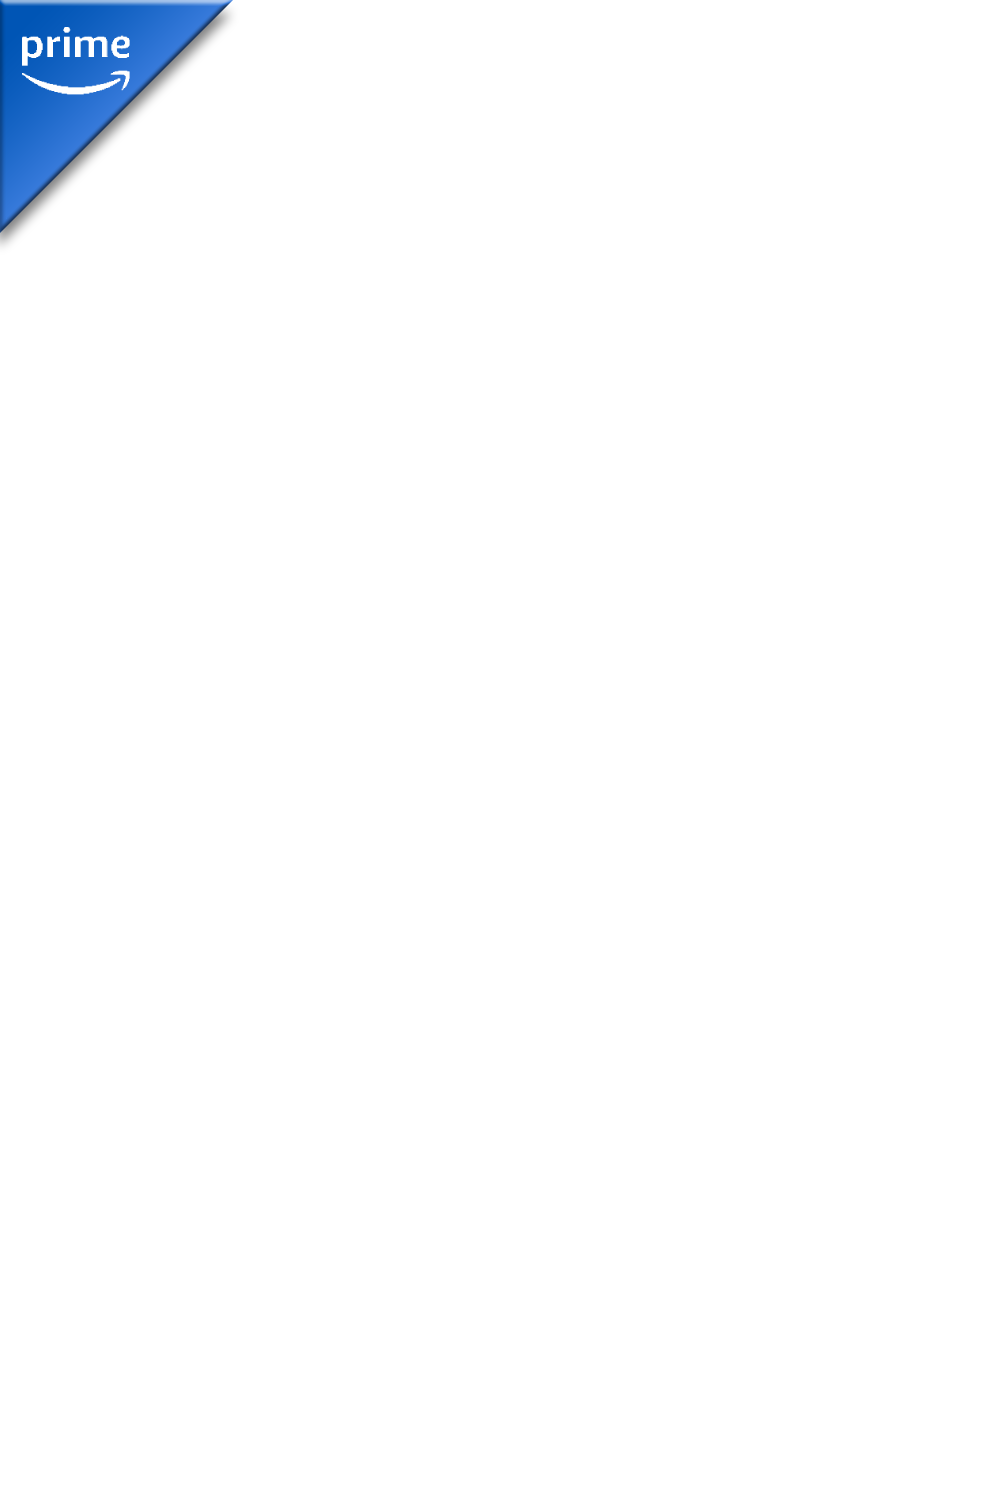
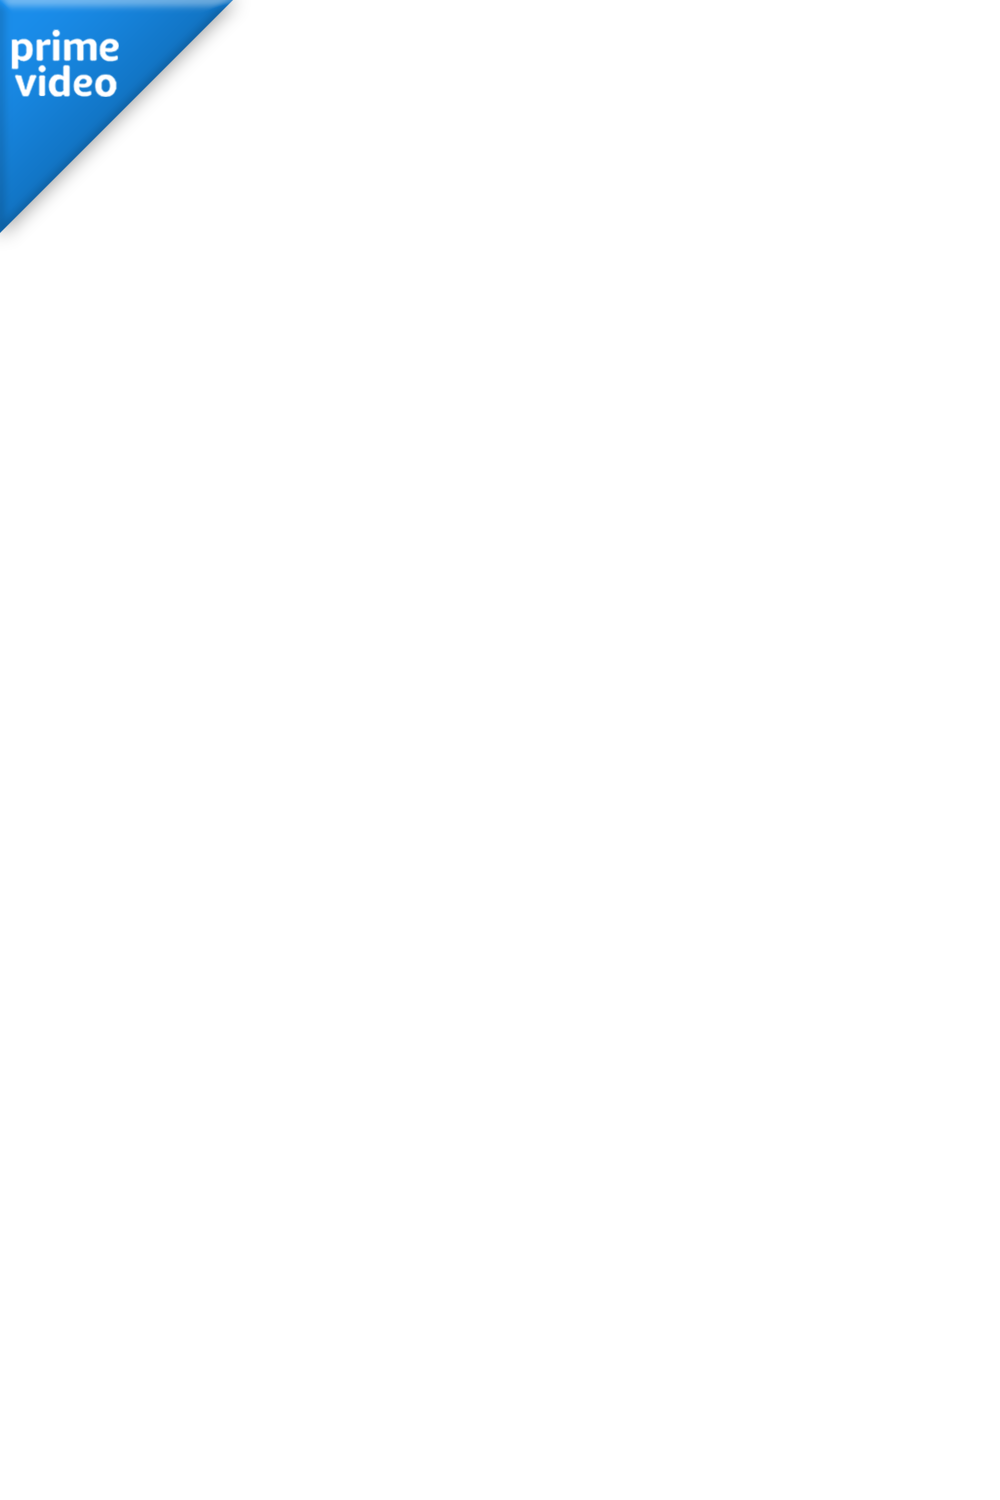
New Streaming Setup done

Changed region(s): [[0.0, 0.0, 0.248, 0.184]]

diff --git a/README.md b/README.md
@@ -158,6 +158,20 @@ This is a bit of a workaround to fill up the missing network logos by first writ
 ```
 ![studio overlay shows](https://github.com/s0len/meta-manager-config/assets/35483234/c5763240-abdd-4810-860c-5d78eef07521)
 
+### Streaming Service in the upper left corner
+```yaml
+- pmm: streaming
+      template_variables:
+          horizontal_align: left
+          horizontal_offset: 0
+          vertical_offset: 0
+          vertical_align: top
+          back_width: 1000
+          back_height: 1500
+          url: https://raw.githubusercontent.com/LanceAlthouse/forked-meta-manager-config/main/overlays/streaming-top-left/<<key>>.png
+          back_color: 00
+```
+
 
 ### Award ribbons in the bottom right corner
 ```yaml
